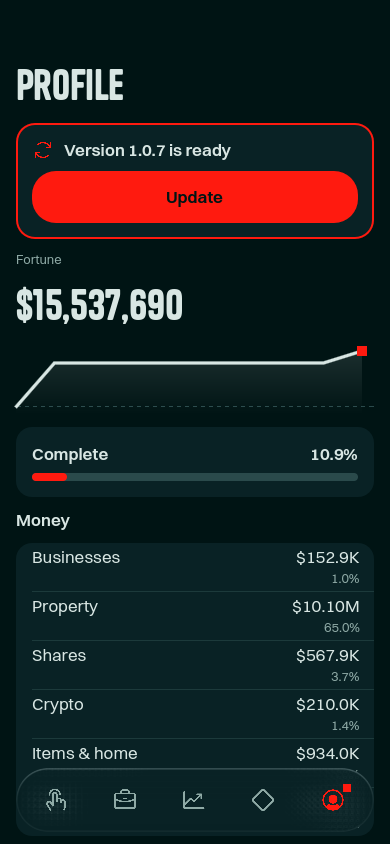
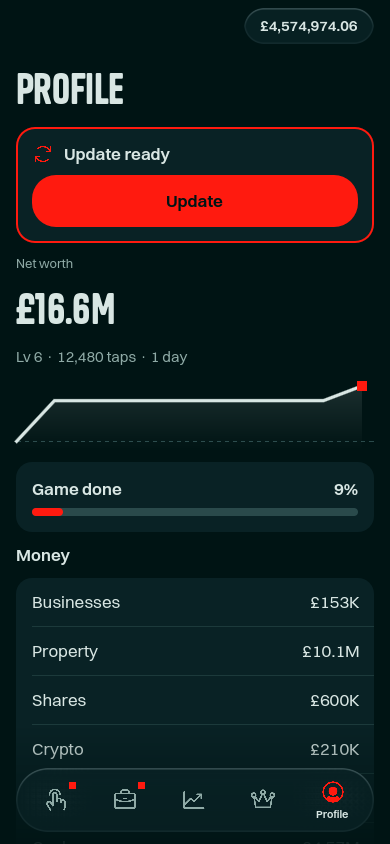
Docs: fresh README pictures, short feature list, keep-docs-current rule
- README: six new screenshots from the latest build (Earn, a company,
  Shares, Crypto miners, a share chart, Profile), a four-line 'What's in
  it' list and a link to the changelog. Still compact.
- CLAUDE.md: owner's rule to update CHANGELOG, the area doc and README
  pictures in the same commit as any player-visible change.
- ARCHITECTURE: new files (sfx, stats, settings, golden sun), miners,
  cash pill, restore guard, market test in CI. TESTING: where README
  pictures come from.

Claude-Session: https://claude.ai/code/session_01G43aEuqkjUy83khniNYyKE

diff --git a/docs/ARCHITECTURE.md b/docs/ARCHITECTURE.md
@@ -26,13 +26,14 @@ Pages never change state directly.
 | Area | Files |
 |---|---|
 | Content and tuning | `data.gd` (companies, stocks, coins, properties, homes, collections, mergers, rivals, all numbers) |
-| Rules and state | `game_state.gd` (money, tapping, companies, markets, deals, managers, goals, achievements, saving) |
+| Rules and state | `game_state.gd` (money, tapping and big taps, companies, milestones, partners, markets, miners, locking, deals, managers, golden sun buffs, goals, achievements, saving) |
 | Tabs | `earn_page.gd`, `business_page.gd`, `invest_page.gd`, `items_page.gd`, `profile_page.gd` |
-| Detail pages | `business_detail.gd`, `start_business_page.gd`, `mergers_page.gd`, `asset_detail.gd`, `news_page.gd`, `property_detail.gd`, `goals_page.gd`, `rivals_page.gd`, `achievements_page.gd`, `ItemsPage.CollectionPage` |
+| Detail pages | `business_detail.gd`, `start_business_page.gd`, `mergers_page.gd`, `asset_detail.gd`, `news_page.gd`, `property_detail.gd`, `goals_page.gd`, `rivals_page.gd`, `achievements_page.gd`, `settings_page.gd`, `stats_page.gd`, `ItemsPage.CollectionPage` |
 | Building blocks | `page.gd`, `row.gd`, `segmented.gd`, `icon.gd`, `icon_button.gd`, `glass_panel.gd`, `count_label.gd`, `goal_card.gd`, `asset_tile.gd` |
-| Drawing | `art.gd` (buildings and vehicles), `tower_card.gd`, `price_chart.gd`, `net_chart.gd`, `confetti.gd` |
+| Drawing | `art.gd` (every scene and building, `Art.SCENES`), `tower_card.gd` (grows with wealth tiers), `golden_sun.gd`, `price_chart.gd`, `net_chart.gd`, `confetti.gd` |
 | Look and motion | `ui.gd` (colours, fonts, helpers), `motion.gd` |
-| Platform | `main.gd` (navigation, back gesture, safe area, deal and welcome-back cards), `updater.gd`, `game_log.gd` |
+| Sound | `sfx.gd` (tones made in code), played via `Kit.sound()` |
+| Platform | `main.gd` (navigation, back button and cash pill, safe area, deal and welcome-back cards), `updater.gd`, `game_log.gd` |
 
 ## Signals from Game
 
@@ -52,7 +53,7 @@ Pages never change state directly.
 - One JSON file, `user://save.json`, written every 5 s when something changed and when the app is paused or closed.
 - Written safely: temp file, keep a `.bak`, then rename. If the main file is broken, the backup loads.
 - `SAVE_VERSION` and `_migrate()` upgrade old saves step by step. Rule R7 checks every saved field is loaded back.
-- Backup codes (`backup_code()`, `restore_code()`) are the save, gzipped and base64, minus price history and news.
+- Backup codes (`backup_code()`, `restore_code()`) are the save, gzipped and base64, minus price history and news. A code can't rewind the game it came from (`user://restore_guard.json`).
 - Time away is applied on load and on resume (`apply_offline()`), capped at 8 hours of income.
 
 ## Adding a feature (checklist)
@@ -68,6 +69,6 @@ Pages never change state directly.
 
 `.github/workflows/android.yml`:
 1. `rules` job: `python3 tools/check_rules.py`.
-2. `android` job (Godot 4.4.1 container): download fonts, import, smoke, stress and touch tests, export and sign `Sol.apk`, publish release `v1.1.<run>` (retries once if GitHub errors).
+2. `android` job (Godot 4.4.1 container): download fonts, import, smoke, stress, market and touch tests, export and sign `Sol.apk`, publish release `v1.1.<run>` (retries once if GitHub errors).
 
 The in-game updater checks the latest release every 30 minutes and on resume, downloads `Sol.apk` and opens the Android installer.

diff --git a/README.md b/README.md
@@ -4,15 +4,24 @@ A personal idle tycoon game for Android, made for one phone.
 Tap to earn, start companies, trade made-up shares and well-known crypto coins, buy property and build a holding company.
 
 <p>
-  <img src="docs/screenshots/01_earn.png" width="200" alt="Earn screen with the tower">
-  <img src="docs/screenshots/06_invest_shares.png" width="200" alt="Shares list">
-  <img src="docs/screenshots/09c_share.png" width="200" alt="A company page with a price chart">
+  <img src="docs/screenshots/01_earn.png" width="200" alt="Earn: tap the tower, cash to the penny">
+  <img src="docs/screenshots/03_taxi.png" width="200" alt="A company: units, expand, manager">
+  <img src="docs/screenshots/06_invest_shares.png" width="200" alt="Shares: yours and the market">
 </p>
 <p>
-  <img src="docs/screenshots/02_business.png" width="200" alt="Business list">
-  <img src="docs/screenshots/08_invest_crypto.png" width="200" alt="Crypto list with market mood">
-  <img src="docs/screenshots/13_profile.png" width="200" alt="Profile screen">
+  <img src="docs/screenshots/31_crypto_mining.png" width="200" alt="Crypto: your coins and miners">
+  <img src="docs/screenshots/09c_share.png" width="200" alt="A share with its price chart">
+  <img src="docs/screenshots/13_profile.png" width="200" alt="Profile: net worth and progress">
 </p>
+
+## What's in it
+
+- 17 companies to open, fill and expand, with milestones and partner boosts
+- Shares, property and crypto (with miners and locking)
+- Daily and weekly goals, golden suns, rivals, achievements
+- Built to take weeks, not days
+
+Latest changes: [CHANGELOG.md](CHANGELOG.md).
 
 ## Please read
 

diff --git a/CLAUDE.md b/CLAUDE.md
@@ -70,6 +70,13 @@ Add a rule when a bug class shows up twice. Keep each rule cheap and certain.
 - Agent play-testers found real exploits each time (market trading, backup re-rolls, boost double pay). Re-run the exploit persona after economy changes.
 - For big batches, split builder agents by file (no two agents touch the same script), have each commit in its own worktree on the branch commit, then cherry-pick. Keep `game_state.gd`, `data.gd`, `main.gd` and `ui_kit.gd` with one owner.
 
+## Keep the docs current (owner's rule)
+
+With every change the player can see, in the same commit:
+- Add a line to `CHANGELOG.md` (top section).
+- Update the doc for that area (DESIGN, BALANCE, TESTING, ARCHITECTURE).
+- If a screen in the README changed, refresh its picture in `docs/screenshots/` from a fresh `tests/screenshot.gd` run (no toasts or pop-ups in shot). Keep the README short: 6 pictures, a few bullets.
+
 ## Releasing
 
 1. All checks above pass.

diff --git a/docs/TESTING.md b/docs/TESTING.md
@@ -37,6 +37,8 @@ Screenshots of a mid-game save, every tab, sheets and popups:
 xvfb-run -a -s "-screen 0 1280x1024x24" $G --path . --rendering-driver opengl3 \
   --resolution 390x844 -s res://tests/screenshot.gd -- /some/output/folder
 ```
+README pictures live in `docs/screenshots/` and come from this run (01_earn, 03_taxi, 06_invest_shares, 31_crypto_mining, 09c_share, 13_profile). Copy fresh ones in when those screens change.
+
 Lines saying `Identifier not found: Game` at the start are harmless (scripts compiling before the autoloads load).
 
 ## Writing tests
